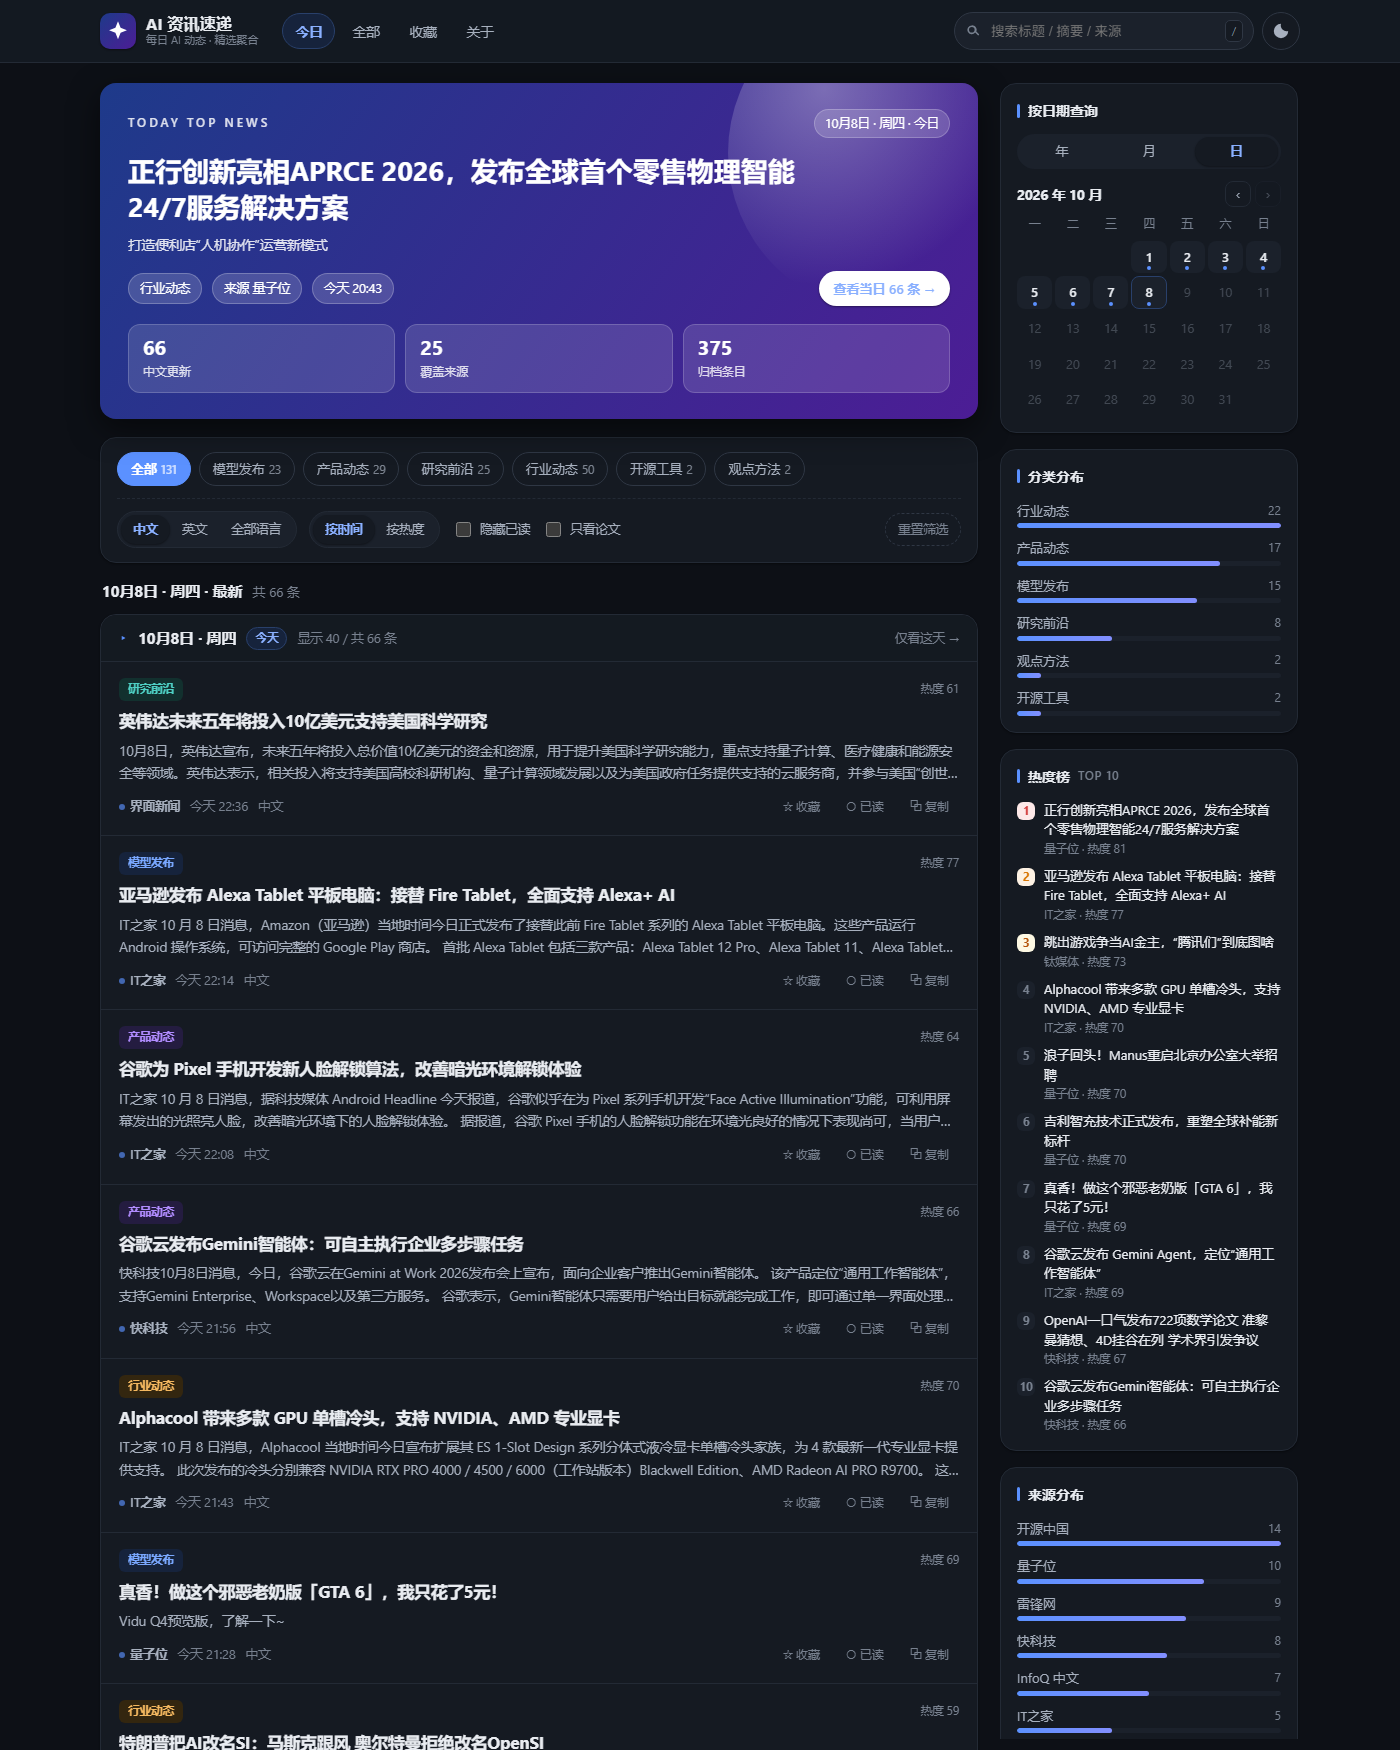
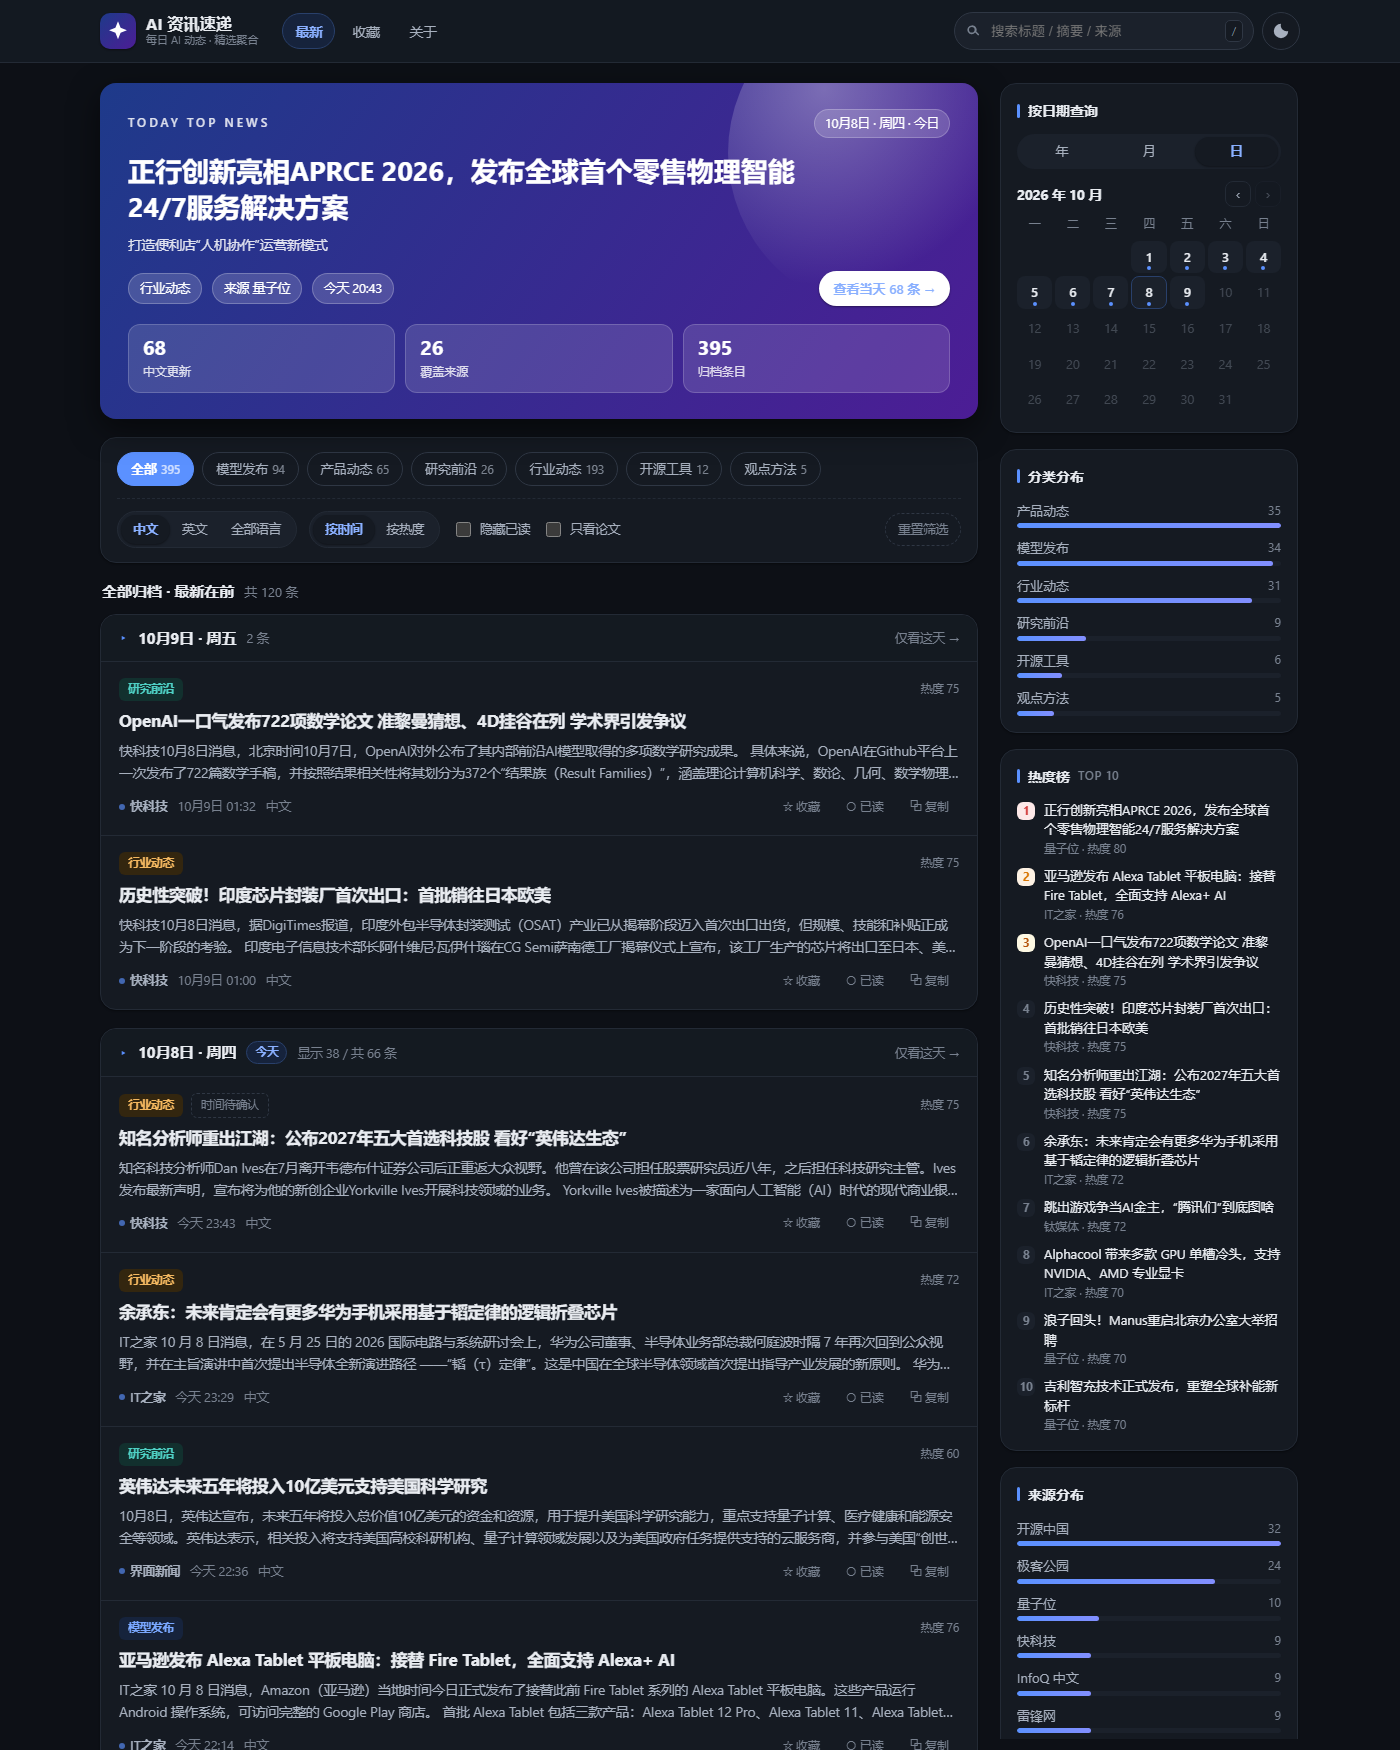
fix: 默认视图改为全部归档，避免凌晨只有零星几条
- 导航由「今日/全部」改为「最新」，默认展示全部归档、最新在前
- 头条与侧栏统计在最新一天不足 10 条时自动并入前一天，跨零点不再出现空页面
- 头条日期标签与跳转链接改用头条自身所属日期
- README 补上线上地址与部署现状

diff --git a/assets/app.js b/assets/app.js
@@ -29,7 +29,7 @@ const $$ = (selector, scope = document) => [...scope.querySelectorAll(selector)]
 
 const state = {
   data: null,
-  view: 'today', // today | all | day | bookmarks
+  view: 'all', // all | today | day | bookmarks（默认展示全部归档，最新在前）
   day: null,
   category: 'all',
   lang: 'zh', // 默认只看中文，切换后会记在本地
@@ -170,8 +170,8 @@ function initTheme() {
 function parseHash() {
   const raw = location.hash.replace(/^#\/?/, '');
   const parts = raw.split('/').filter(Boolean).map(decodeURIComponent);
-  const next = { view: 'today', day: null, category: 'all' };
-  if (parts[0] === 'all' || parts[0] === 'bookmarks') next.view = parts[0];
+  const next = { view: 'all', day: null, category: 'all' };
+  if (parts[0] === 'all' || parts[0] === 'today' || parts[0] === 'bookmarks') next.view = parts[0];
   for (let i = 0; i < parts.length; i += 2) {
     const key = parts[i];
     const value = parts[i + 1];
@@ -190,9 +190,9 @@ function parseHash() {
 function writeHash() {
   const parts = [];
   if (state.view === 'bookmarks') parts.push('bookmarks');
-  else if (state.view === 'all') parts.push('all');
+  else if (state.view === 'today') parts.push('today');
   else if (state.view === 'day' && state.day) parts.push('day', state.day);
-  else parts.push('today');
+  else parts.push('all');
   if (state.category !== 'all') parts.push('cat', state.category);
   if (state.day && state.view !== 'day') parts.push('day', state.day);
   const next = `#/${parts.map(encodeURIComponent).join('/')}`;
@@ -228,10 +228,7 @@ function baseItems() {
   if (!state.data) return [];
   const all = state.data.items;
   if (state.view === 'bookmarks') return all.filter((item) => state.bookmarks.has(item.id));
-  if (state.view === 'today') {
-    const latest = state.data.days?.[0]?.day;
-    return latest ? all.filter((item) => item.day === latest) : all;
-  }
+  if (state.view === 'today') return all.filter((item) => item.day === todayKey());
   if (state.view === 'day' && state.day) return all.filter((item) => item.day === state.day);
   return all;
 }
@@ -267,19 +264,22 @@ function renderHero() {
     box.hidden = true;
     return;
   }
-  const latestDay = state.data.days?.[0]?.day;
-  const todays = all.filter((item) => item.day === latestDay);
+  // 跨零点后最新一天可能只有零星几条，这时把前一天一起纳入头条窗口
+  const days = state.data.days || [];
+  const windowDays = [days[0]?.day];
+  if ((days[0]?.count ?? 0) < 10 && days[1]) windowDays.push(days[1].day);
+  const todays = all.filter((item) => windowDays.includes(item.day));
   const preferred = state.lang === 'all' ? todays : todays.filter((item) => item.lang === state.lang);
   const pool = preferred.length ? preferred : todays;
   const featured = [...pool].sort((a, b) => b.hot - a.hot)[0] || all[0];
-  const isToday = latestDay === todayKey();
+  const isToday = featured.day === todayKey();
   const scopeLabel = state.lang === 'zh' ? '中文更新' : state.lang === 'en' ? '英文更新' : '当日更新';
 
   box.hidden = false;
   box.innerHTML = `
     <div class="hero-top">
       <span class="hero-eyebrow">Today Top News</span>
-      <span class="hero-date">${escapeHtml(dayLabelOf(latestDay))}${isToday ? ' · 今日' : ''}</span>
+      <span class="hero-date">${escapeHtml(dayLabelOf(featured.day))}${isToday ? ' · 今日' : ''}</span>
     </div>
     <h1 class="hero-title">
       <a href="${escapeHtml(featured.url)}" target="_blank" rel="noopener noreferrer">${escapeHtml(featured.title)}</a>
@@ -289,7 +289,7 @@ function renderHero() {
       <span class="hero-chip">${escapeHtml(featured.category)}</span>
       <span class="hero-chip">来源 ${escapeHtml(featured.source)}</span>
       <span class="hero-chip">${escapeHtml(relativeTime(featured.publishedTs))}</span>
-      <a class="hero-cta" href="#/day/${encodeURIComponent(latestDay)}">查看当日 ${pool.length} 条 →</a>
+      <a class="hero-cta" href="#/day/${encodeURIComponent(featured.day)}">查看当天 ${pool.length} 条 →</a>
     </div>
     <div class="hero-stats">
       <div class="hero-stat"><b>${pool.length}</b><span>${scopeLabel}</span></div>
@@ -372,10 +372,10 @@ function renderFeed() {
   const scopeText = state.view === 'bookmarks'
     ? '我的收藏'
     : state.view === 'today'
-      ? `${dayLabelOf(state.data.days?.[0]?.day || todayKey())} · 最新`
+      ? `${dayLabelOf(todayKey())} · 今天`
       : state.view === 'day' && state.day
         ? dayLabelOf(state.day)
-        : '全部归档';
+        : '全部归档 · 最新在前';
 
   head.innerHTML = `<b>${escapeHtml(scopeText)}</b><span>共 ${items.length} 条${
     state.query ? ` · 关键词“${escapeHtml(state.query)}”` : ''
@@ -692,8 +692,7 @@ function updateNav() {
   $$('#nav a[data-nav]').forEach((link) => {
     const key = link.dataset.nav;
     const active =
-      (key === 'today' && state.view === 'today') ||
-      (key === 'all' && (state.view === 'all' || state.view === 'day')) ||
+      (key === 'all' && (state.view === 'all' || state.view === 'today' || state.view === 'day')) ||
       (key === 'bookmarks' && state.view === 'bookmarks');
     link.classList.toggle('is-active', active);
   });
@@ -887,7 +886,7 @@ function bindEvents() {
       state.hideRead = false;
       state.onlyPapers = false;
       state.day = null;
-      state.view = 'today';
+      state.view = 'all';
       state.limit = PAGE_SIZE;
       $('#search').value = '';
       try {

diff --git a/index.html b/index.html
@@ -19,7 +19,7 @@
 
     <header class="topbar">
       <div class="wrap topbar-inner">
-        <a class="brand" href="#/today" aria-label="回到今日">
+        <a class="brand" href="#/all" aria-label="回到最新资讯">
           <span class="brand-mark" aria-hidden="true">
             <svg viewBox="0 0 32 32" width="26" height="26">
               <path
@@ -35,8 +35,7 @@
         </a>
 
         <nav class="nav" id="nav">
-          <a href="#/today" data-nav="today">今日</a>
-          <a href="#/all" data-nav="all">全部</a>
+          <a href="#/all" data-nav="all">最新</a>
           <a href="#/bookmarks" data-nav="bookmarks">
             收藏 <span class="count-badge" id="bmCount" hidden>0</span>
           </a>

diff --git a/README.md b/README.md
@@ -1,5 +1,7 @@
 # AI 资讯速递
 
+**线上地址：<https://githublizh.github.io/ai-news-daily/>**（每天北京时间 06:00 自动更新）
+
 一个自建的 AI 资讯聚合站：每天抓取国内外公开 RSS 源，去重、分类、按天归档后写入一份静态 JSON，
 页面纯前端渲染。没有账号、没有广告，适合自己和朋友每天花几分钟扫一眼 AI 圈发生了什么。
 
@@ -9,7 +11,8 @@
 
 ## 特性
 
-- **按天归档的资讯流**：日期分组 + 粘性表头，跨源转载自动合并并标注「另见」
+- **按天归档的资讯流**：默认「最新」视图把全部归档按天从新到旧铺开，日期分组 + 粘性表头，
+  跨源转载自动合并并标注「另见」（凌晨时段最新一天可能只有零星几条，头条与统计会自动带上前一天）
 - **日期查询日历**：年 / 月 / 日三级切换，有数据的日期带标记，可一键跳到某天
 - **分类筛选**：模型发布 / 产品动态 / 研究前沿 / 行业动态 / 开源工具 / 观点方法
 - **搜索**：标题、摘要、来源、转载来源全文匹配，按 `/` 快速聚焦
@@ -119,7 +122,8 @@ npm run fetch && npm run build     # 生成 dist/
 站点是纯静态产物，把 `dist/` 作为站点根目录发布即可（也可以直接发布仓库根目录）。
 
 - **GitHub Pages**：仓库已带 `.github/workflows/refresh-and-deploy.yml`，每天北京时间 06:00
-  自动抓取、提交 `data/news.json` 与 `data/feed.xml`、构建 `dist/` 并发布站点。首次使用需在仓库
+  自动抓取、提交 `data/news.json` 与 `data/feed.xml`、构建 `dist/` 并发布站点。
+  本项目已按此方式部署在 <https://githublizh.github.io/ai-news-daily/>；换仓库时需在
   `Settings → Pages → Build and deployment` 把 Source 选为 **GitHub Actions**。
 - **Vercel / Netlify**：构建命令填 `npm run fetch && npm run build`，发布目录填 `dist`。
 - **本地自用**：`npm run fetch && npm run dev`，局域网内其他设备可通过 `HOST=0.0.0.0` 访问。
